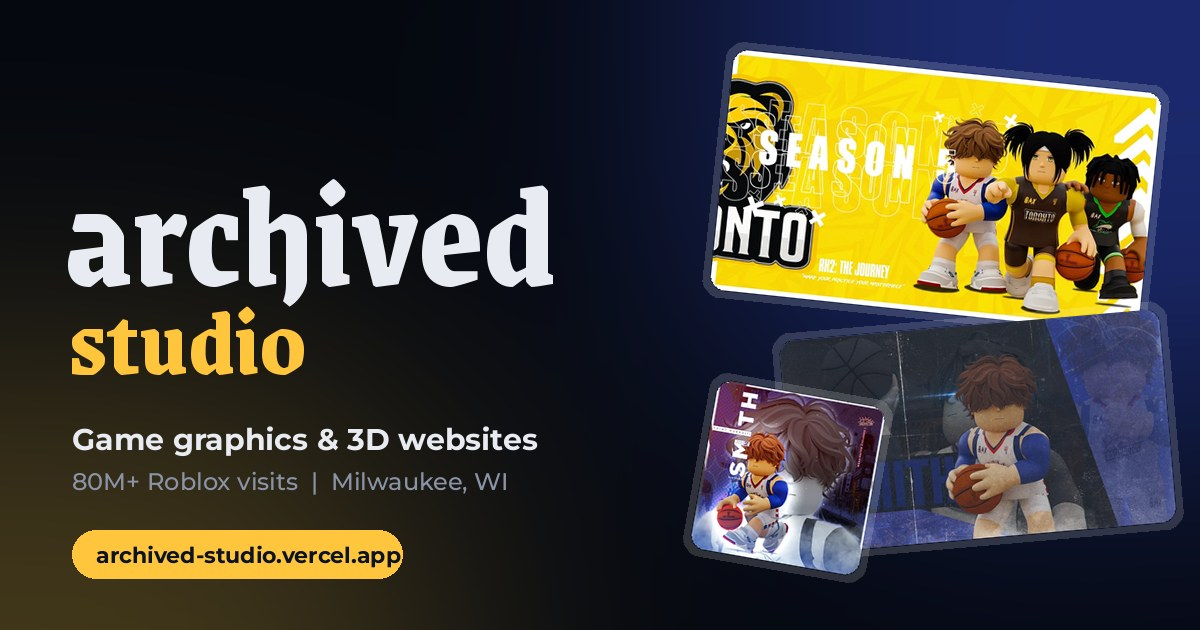
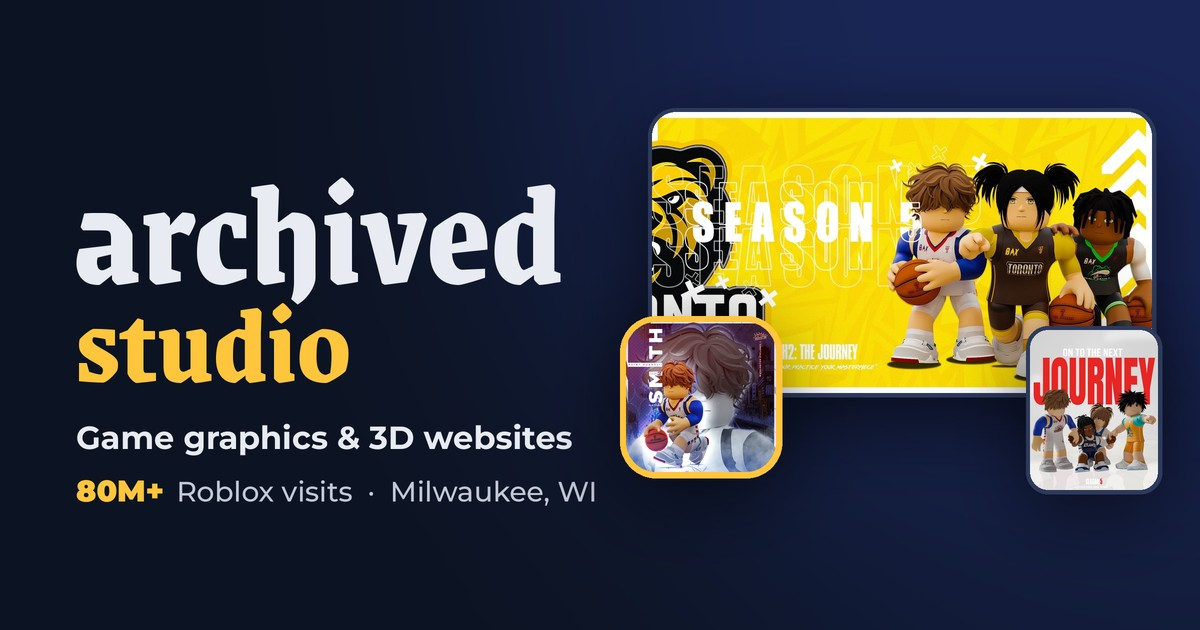
Ways to pay as a line in the rate card, cleaner share preview
Claude-Session: https://claude.ai/code/session_0169UPtJ4vZaZhZiZ2xxkDQo

diff --git a/index.html b/index.html
@@ -11,12 +11,12 @@
   <meta property="og:site_name" content="Archived Studio">
   <meta property="og:title" content="Archived Studio | Game graphics and 3D websites">
   <meta property="og:description" content="Thumbnails, icons, posters and 3D websites for Roblox games and creators. 80M+ visits across the games I've designed for.">
-  <meta property="og:image" content="https://archived-studio.vercel.app/icons/og-image.jpg">
+  <meta property="og:image" content="https://archived-studio.vercel.app/icons/og-image.jpg?v=2">
   <meta property="og:image:width" content="1200">
   <meta property="og:image:height" content="630">
   <meta property="og:image:alt" content="Archived Studio wordmark beside Roblox game thumbnails">
   <meta name="twitter:card" content="summary_large_image">
-  <meta name="twitter:image" content="https://archived-studio.vercel.app/icons/og-image.jpg">
+  <meta name="twitter:image" content="https://archived-studio.vercel.app/icons/og-image.jpg?v=2">
   <link rel="icon" href="/favicon.ico" sizes="48x48">
   <link rel="icon" href="/icons/icon-192.png" type="image/png" sizes="192x192">
   <link rel="apple-touch-icon" href="/icons/apple-touch-icon.png">
@@ -230,14 +230,13 @@
               </dl>
             </section>
           </div>
+          <div class="menu-pay" role="group" aria-label="Ways to pay">
+            <span class="menu-pay-label">ways to pay</span>
+            <ul class="menu-pay-list" role="list"><li>cash app</li><li>venmo</li><li>chime</li><li>paypal</li></ul>
+            <span class="menu-pay-note">Tap-to-pay links come with your invoice.</span>
+          </div>
           <div class="menu-foot"><p>Need something that isn't listed? Ask and I'll quote it.</p><a class="btn btn-solid" href="#contact">get a quote</a></div>
         </div>
-
-        <section class="pay" aria-labelledby="pay-title">
-          <h3 id="pay-title" class="pay-label">ways to pay</h3>
-          <ul class="pay-chips" role="list"><li><svg aria-hidden="true" viewBox="0 0 24 24" fill="none" stroke="currentColor" stroke-width="2.2" stroke-linecap="round" stroke-linejoin="round"><path d="M15.5 8.5c-.6-1-1.9-1.6-3.5-1.6-2 0-3.4 1-3.4 2.5 0 3.4 7 1.8 7 5.2 0 1.5-1.5 2.5-3.6 2.5-1.7 0-3.1-.7-3.7-1.8M12 4.5v15"/></svg>cash app</li><li><svg aria-hidden="true" viewBox="0 0 24 24" fill="none" stroke="currentColor" stroke-width="2.2" stroke-linecap="round" stroke-linejoin="round"><path d="M4 8h13l-3.5-3.5M20 16H7l3.5 3.5"/></svg>venmo</li><li><svg aria-hidden="true" viewBox="0 0 24 24" fill="none" stroke="currentColor" stroke-width="2.2" stroke-linecap="round" stroke-linejoin="round"><path d="M12 3.5v2M6.5 16.5V11a5.5 5.5 0 0 1 11 0v5.5l1.5 2H5zM10 20.5a2 2 0 0 0 4 0"/></svg>chime</li><li><svg aria-hidden="true" viewBox="0 0 24 24" fill="none" stroke="currentColor" stroke-width="2.2" stroke-linecap="round" stroke-linejoin="round"><path d="M3.5 7.5h14a3 3 0 0 1 3 3v6a3 3 0 0 1-3 3h-11a3 3 0 0 1-3-3zM3.5 7.5l11-3.5 1.5 3.5M16.5 13.5h.01"/></svg>paypal</li></ul>
-          <p class="pay-note">Tap-to-pay links come with your invoice.</p>
-        </section>
       </div>
     </section>
 

diff --git a/styles.css b/styles.css
@@ -298,18 +298,15 @@ main, .nav, .foot { position: relative; z-index: 1; }
 .item .desc { grid-column: 1 / -1; margin: 6px 0 0; font-size: .9rem; font-weight: 500; color: var(--slate-dark); max-width: 40ch; }
 
 .menu-foot { display: flex; flex-wrap: wrap; align-items: center; justify-content: space-between; gap: 14px; padding: 18px 28px; background: var(--paper); border-top: 1px solid var(--line-light); font-weight: 600; }
+.menu-pay { display: flex; flex-wrap: wrap; align-items: baseline; gap: 8px 22px; padding: 16px 28px; border-top: 1.5px dashed var(--line-light); }
+.menu-pay-label { font: 800 1.35rem/1 var(--f-black); text-transform: lowercase; }
+.menu-pay-list { display: flex; flex-wrap: wrap; align-items: baseline; list-style: none; margin: 0; padding: 0; font: 800 .92rem var(--f); text-transform: lowercase; }
+.menu-pay-list li + li::before { content: ""; display: inline-block; width: 5px; height: 5px; border-radius: 50%; background: var(--court); margin: 0 12px; vertical-align: middle; position: relative; top: -2px; }
+.menu-pay-note { margin-left: auto; font-size: .82rem; font-weight: 500; color: var(--slate-dark); }
+@media (max-width: 720px) { .menu-pay { padding: 16px 22px; } .menu-pay-note { margin-left: 0; width: 100%; } }
 .menu .btn-solid { background: var(--ink); color: var(--paper); }
 .menu .btn-solid:hover { background: var(--volt); }
 .menu :focus-visible { outline-color: var(--volt); }
-
-/* ---------- Ways to pay ---------- */
-.pay { margin-top: clamp(24px, 3vw, 36px); display: flex; flex-wrap: wrap; align-items: center; gap: 12px 18px; padding: 16px 0; border-top: 1px solid var(--line-dark); border-bottom: 1px solid var(--line-dark); }
-.pay-label { font: 700 .72rem var(--f); letter-spacing: .14em; text-transform: lowercase; color: var(--court); }
-.pay-chips { display: flex; flex-wrap: wrap; gap: 8px; list-style: none; margin: 0; padding: 0; }
-.pay-chips li { display: inline-flex; align-items: center; gap: 7px; height: 32px; padding: 0 13px; border-radius: 999px; border: 1px solid var(--line-dark); background: var(--ink-2); color: var(--paper); font: 600 .82rem var(--f); text-transform: lowercase; }
-.pay-chips svg { width: 14px; height: 14px; color: var(--court); flex: none; }
-.pay-note { margin-left: auto; color: var(--text-dim); font-size: .85rem; font-weight: 500; }
-@media (max-width: 720px) { .pay-note { margin-left: 0; width: 100%; } }
 
 /* ---------- About ---------- */
 .about { background: var(--paper); color: var(--ink); padding: clamp(80px, 12vw, 140px) 0; }

diff --git a/PROJECT_NOTES.md b/PROJECT_NOTES.md
@@ -18,7 +18,8 @@ Portfolio for Archived Studio (formerly VANTA): game graphics for Roblox games (
 - Stats: 80M+ / 20K+ stacked on the left (max 46%). The chrome torus knot spins on the right and follows the cursor; hidden under 720px. (A chrome blackletter 'a' was tried in Oct 2026 and the owner asked to go back to the knot.)
 - Flight: full-res images baked with a corner 'archived' signature + shader holographic tiled watermark with a sweeping gold/blue sheen. Textures load lazily (when `.proof` is within 600px, or on idle) so they don't compete with first paint.
 - Rate card: the 'menu' version (commit 0fb33e4): header line, 3 numbered steps on a dashed line, three menu columns (game graphics, design, websites) with the $25 package flagged best value. Other versions (ruled steps, influencer poster sheet) were rejected; don't bring them back.
-- Ways to pay: one slim row under the rate card (label + four small chips: cash app, venmo, chime, paypal, with our own simple glyphs, no brand logos). Owner rejected a big tile grid version as too bulky. Handles are NOT shown on the site; the pay links live only in the Gmail Payment template.
+- Ways to pay: a single receipt-style line inside the rate card, above the menu footer (blackletter 'ways to pay', then cash app • venmo • chime • paypal, plus 'tap-to-pay links come with your invoice'). Owner rejected a big tile grid AND a separate pill/chip row: keep it inside the card, text only. Handles are NOT shown on the site; pay links live only in the Gmail Payment template.
+- Share preview (icons/og-image.jpg, referenced as ?v=2 to bust chat caches): wordmark + tagline + 80M+ on the left, one straight thumbnail with an icon and poster overlapping, all inside the frame. Bump ?v= when it changes.
 - Brand assets: favicon.ico + icons/ (yellow blackletter 'a' on an ink rounded square), site.webmanifest, icons/og-image.jpg (1200x630 share preview). Vercel Web Analytics is on (`/_vercel/insights/script.js`).
 - Grid/lightbox images: `.frame` overlay with tiled watermark (canvas-generated `--wm`) + animated corner signature. Right-click disabled on images.
 - Custom scrollbar (court-yellow thumb on ink).
